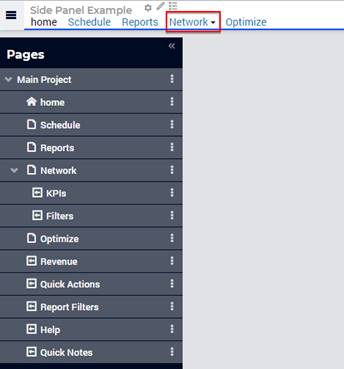
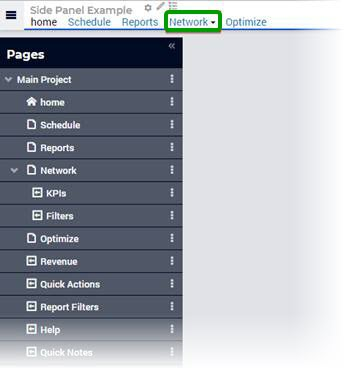
updated images and article 180-use-side-panel-with-old-menu.rst

Changed region(s): [[0.0, 0.0596, 1.0, 1.0], [0.4651, 0.0, 0.6686, 0.0894], [0.0872, 0.0596, 0.1163, 0.0894]]

diff --git a/Articles/180/180-use-side-panel-with-old-menu.rst b/Articles/180/180-use-side-panel-with-old-menu.rst
@@ -7,15 +7,13 @@ Using Sidepanels with the Old WebUI Theme
 
 Sidepanels were released in AIMMS version 4.64.1. If you are using the previously shared application specific resources (ASR) to retain the old theme of WebUI (AIMMS 4.58 and lower), links to the sidepanel pages will be also displayed in the top navigation menu. 
 
-.. image:: images/merged.png
-   :align: center
 
 Adapting ASR for sidepanels
 ----------------------------------
 
 When using sidepanels with ASR, duplicated links appear in the top navigation menu. 
 
-To hide these links:
+To hide these duplicated links:
 
 #. Go to the ASR folder in your project files.
 
@@ -31,11 +29,14 @@ To hide these links:
 
 	}
 
+The links will disappear from the top menu. 
 
-The resulting page can be seen on the right. 
+.. image:: images/merged.png
+   :align: center
+
 
 Sidepanels added as subpages
-"""""""""""""""""""""""""""""""
+----------------------------
 
 We recommend not to add sidepanel pages as subpages. If a sidepanel page is added as a subpage, an arrow is displayed to indicate the presence of subpages to your end users, but the arrow will not expand as expected.
  
